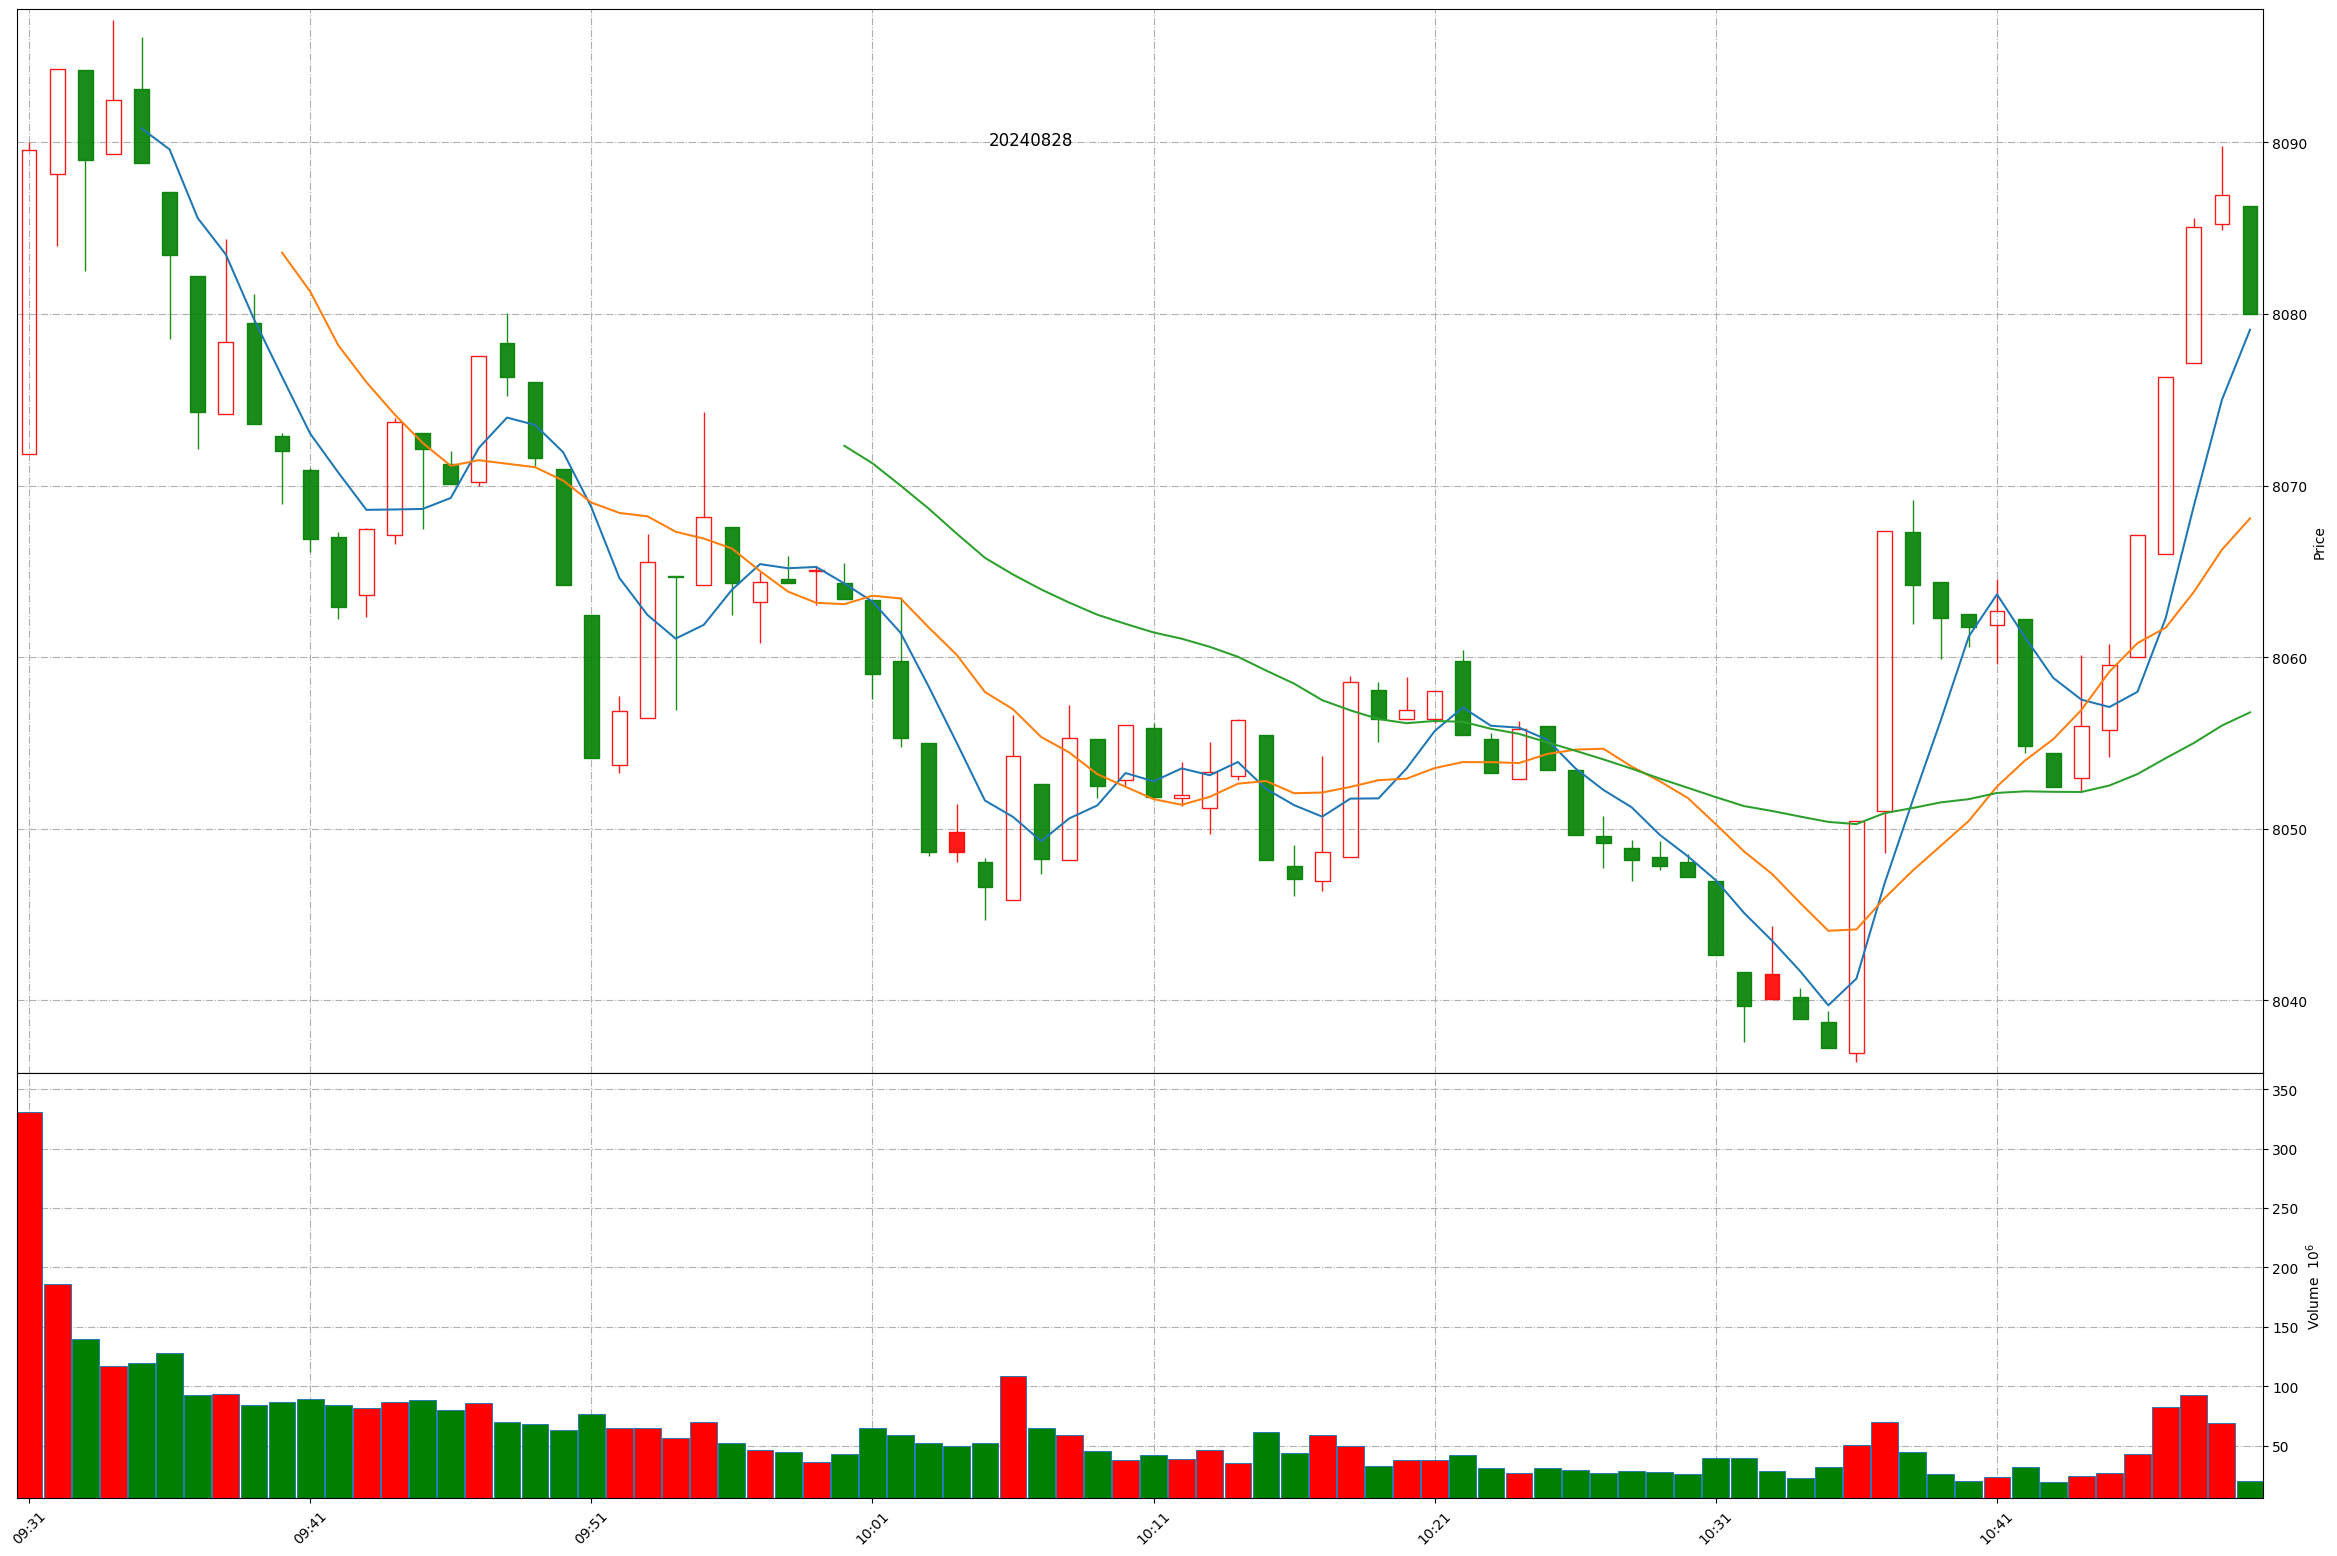
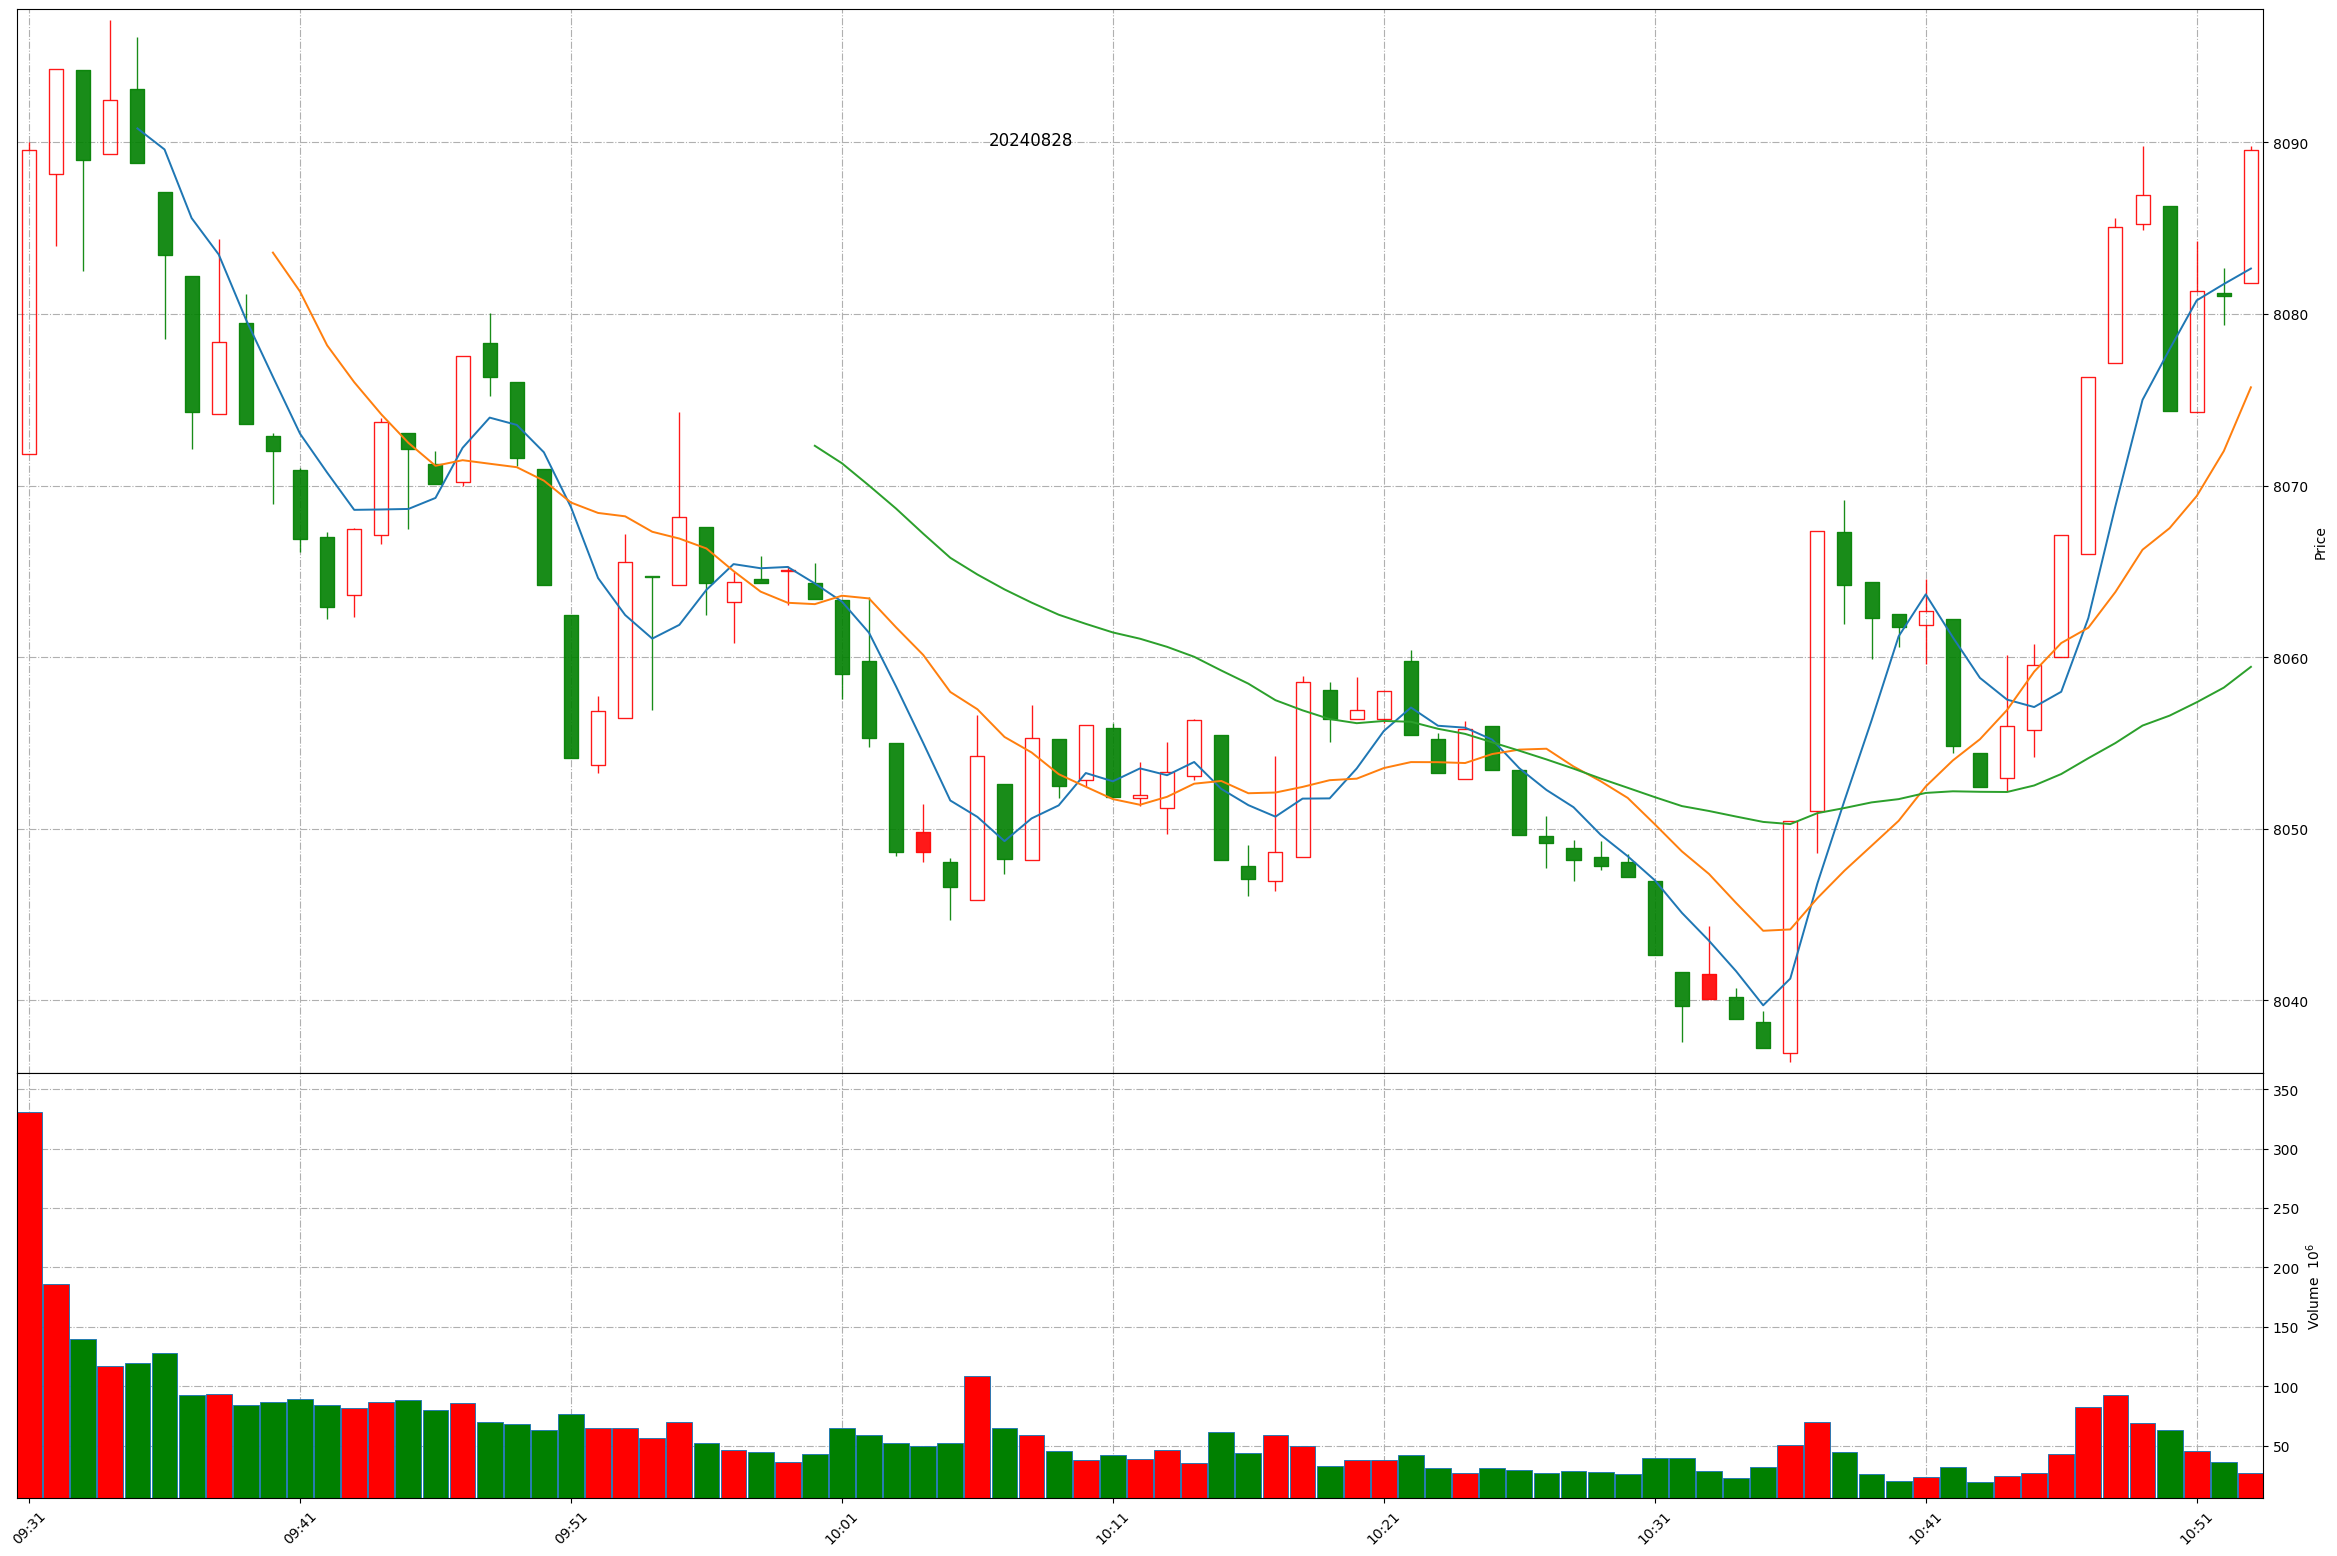
Github action update at 2024-08-28 10:52:40.

diff --git a/README.md b/README.md
@@ -1,11 +1,11 @@
 
 # Daily-A-share-market-quotes 每日 A 股指数（5min 更新）- 20240828
 
-### 上证指数 20240828 10:49
+### 上证指数 20240828 10:52
 ![](./fig/2024/8/20240828-sh000001.png)
 
-### 深证成指 20240828 10:49
+### 深证成指 20240828 10:52
 ![](./fig/2024/8/20240828-sz399001.png)
 
-### 北证50 20240828 10:49
+### 北证50 20240828 10:52
 ![](./fig/2024/8/20240828-bj899050.png)
